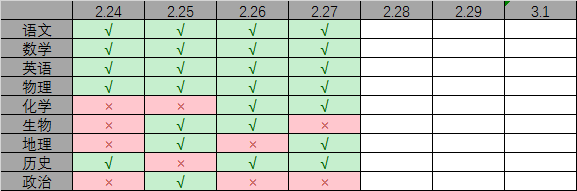
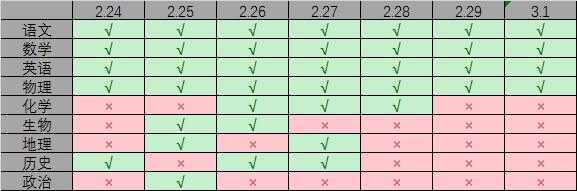
Site updated: 2020-03-01 10:53:21

diff --git a/2020/02/24/寒假自学计划安排（Updated）/index.html b/2020/02/24/寒假自学计划安排（Updated）/index.html
@@ -108,17 +108,18 @@
 <meta property="og:site_name" content="YRC的博客">
 <meta property="og:description" content="前言：2020年是个神奇的一年， 这一年开头， 澳大利亚森林大火失控， 乌克兰客机坠毁， 英国脱欧， 新型冠状病毒广泛传播， 科比遇难， 横扫亚非的蝗灾， 频繁的地震， 以及……最长的一次寒假， 近一个月没出过门。 总不能在家没事干吧…… Game？ 打久了有点无聊。 Study？ 好像有点用，是不是枯燥了点？ Music？ 总不能一直听吧…… 不如把三个揉在一起？ 那就试一下吧！ 计划（方便排版">
 <meta property="og:locale" content="zh-CN">
-<meta property="og:image" content="https://dgsyrc.github.io/2020/02/24/寒假自学计划安排（Updated）/1.jpg">
-<meta property="og:image" content="https://dgsyrc.github.io/2020/02/24/寒假自学计划安排（Updated）/2.jpg">
-<meta property="og:image" content="https://dgsyrc.github.io/2020/02/24/寒假自学计划安排（Updated）/3.jpg">
+<meta property="og:image" content="https://dgsyrc.github.io/2020/02/24/寒假自学计划安排（Updated）/1.png">
+<meta property="og:image" content="https://dgsyrc.github.io/2020/02/24/寒假自学计划安排（Updated）/2.png">
+<meta property="og:image" content="https://dgsyrc.github.io/2020/02/24/寒假自学计划安排（Updated）/3.png">
+<meta property="og:image" content="https://dgsyrc.github.io/2020/02/24/寒假自学计划安排（Updated）/4.png">
 <meta property="og:image" content="https://dgsyrc.github.io/2020/02/24/寒假自学计划安排（Updated）/jh1.png">
 <meta property="og:image" content="https://dgsyrc.github.io/2020/02/24/寒假自学计划安排（Updated）/jh2.png">
 <meta property="og:image" content="https://dgsyrc.github.io/2020/02/24/寒假自学计划安排（Updated）/jh3.png">
-<meta property="og:updated_time" content="2020-02-26T14:02:15.724Z">
+<meta property="og:updated_time" content="2020-03-01T02:52:24.403Z">
 <meta name="twitter:card" content="summary">
 <meta name="twitter:title" content="寒假自学计划安排（Updated）">
 <meta name="twitter:description" content="前言：2020年是个神奇的一年， 这一年开头， 澳大利亚森林大火失控， 乌克兰客机坠毁， 英国脱欧， 新型冠状病毒广泛传播， 科比遇难， 横扫亚非的蝗灾， 频繁的地震， 以及……最长的一次寒假， 近一个月没出过门。 总不能在家没事干吧…… Game？ 打久了有点无聊。 Study？ 好像有点用，是不是枯燥了点？ Music？ 总不能一直听吧…… 不如把三个揉在一起？ 那就试一下吧！ 计划（方便排版">
-<meta name="twitter:image" content="https://dgsyrc.github.io/2020/02/24/寒假自学计划安排（Updated）/1.jpg">
+<meta name="twitter:image" content="https://dgsyrc.github.io/2020/02/24/寒假自学计划安排（Updated）/1.png">
 
 
 
@@ -461,7 +462,7 @@
                 
                   <span class="post-meta-item-text">更新于</span>
                 
-                <time title="修改时间：2020-02-26 22:02:15" itemprop="dateModified" datetime="2020-02-26T22:02:15+08:00">2020-02-26</time>
+                <time title="修改时间：2020-03-01 10:52:24" itemprop="dateModified" datetime="2020-03-01T10:52:24+08:00">2020-03-01</time>
               
             
           </span>
@@ -495,7 +496,7 @@
                 
                   <span class="post-meta-item-text">本文字数：</span>
                 
-                <span title="本文字数">722</span>
+                <span title="本文字数">736</span>
               
 
               
@@ -549,9 +550,10 @@
 <p>总不能一直听吧……</p>
 <p>不如把三个揉在一起？</p>
 <p>那就试一下吧！</p>
-<h2 id="计划（方便排版，Monday为一周第一天）："><a href="#计划（方便排版，Monday为一周第一天）：" class="headerlink" title="计划（方便排版，Monday为一周第一天）："></a>计划（方便排版，Monday为一周第一天）：</h2><h3 id="第一周（2-10-2-16）："><a href="#第一周（2-10-2-16）：" class="headerlink" title="第一周（2.10~2.16）："></a>第一周（2.10~2.16）：</h3><p><img src="1.jpg" alt></p>
-<h3 id="第二周（2-17-2-23）："><a href="#第二周（2-17-2-23）：" class="headerlink" title="第二周（2.17~2.23）："></a>第二周（2.17~2.23）：</h3><p><img src="2.jpg" alt></p>
-<h3 id="第三周（2-24-3-1）："><a href="#第三周（2-24-3-1）：" class="headerlink" title="第三周（2.24~3.1）："></a>第三周（2.24~3.1）：</h3><p><img src="3.jpg" alt></p>
+<h2 id="计划（方便排版，Monday为一周第一天）："><a href="#计划（方便排版，Monday为一周第一天）：" class="headerlink" title="计划（方便排版，Monday为一周第一天）："></a>计划（方便排版，Monday为一周第一天）：</h2><h3 id="第一周（2-10-2-16）："><a href="#第一周（2-10-2-16）：" class="headerlink" title="第一周（2.10~2.16）："></a>第一周（2.10~2.16）：</h3><p><img src="1.png" alt></p>
+<h3 id="第二周（2-17-2-23）："><a href="#第二周（2-17-2-23）：" class="headerlink" title="第二周（2.17~2.23）："></a>第二周（2.17~2.23）：</h3><p><img src="2.png" alt></p>
+<h3 id="第三周（2-24-3-1）："><a href="#第三周（2-24-3-1）：" class="headerlink" title="第三周（2.24~3.1）："></a>第三周（2.24~3.1）：</h3><p><img src="3.png" alt></p>
+<h3 id="第四周（3-2-3-8）："><a href="#第四周（3-2-3-8）：" class="headerlink" title="第四周（3.2~3.8）："></a>第四周（3.2~3.8）：</h3><p><img src="4.png" alt></p>
 <h3 id="第N周（-）："><a href="#第N周（-）：" class="headerlink" title="第N周（?.?~?.?）："></a>第N周（?.?~?.?）：</h3><h2 id="Game"><a href="#Game" class="headerlink" title="Game:"></a>Game:</h2><p>主要是颓音游，有时是Minecraft。</p>
 <p>音游：osu!、Cytoid、Arcaea、Lanota</p>
 <p>还有皇室战争……</p>
@@ -918,7 +920,7 @@
             
 
             
-              <div class="post-toc-content"><ol class="nav"><li class="nav-item nav-level-2"><a class="nav-link" href="#前言："><span class="nav-number">1.</span> <span class="nav-text">前言：</span></a></li><li class="nav-item nav-level-2"><a class="nav-link" href="#计划（方便排版，Monday为一周第一天）："><span class="nav-number">2.</span> <span class="nav-text">计划（方便排版，Monday为一周第一天）：</span></a><ol class="nav-child"><li class="nav-item nav-level-3"><a class="nav-link" href="#第一周（2-10-2-16）："><span class="nav-number">2.1.</span> <span class="nav-text">第一周（2.10~2.16）：</span></a></li><li class="nav-item nav-level-3"><a class="nav-link" href="#第二周（2-17-2-23）："><span class="nav-number">2.2.</span> <span class="nav-text">第二周（2.17~2.23）：</span></a></li><li class="nav-item nav-level-3"><a class="nav-link" href="#第三周（2-24-3-1）："><span class="nav-number">2.3.</span> <span class="nav-text">第三周（2.24~3.1）：</span></a></li><li class="nav-item nav-level-3"><a class="nav-link" href="#第N周（-）："><span class="nav-number">2.4.</span> <span class="nav-text">第N周（?.?~?.?）：</span></a></li></ol></li><li class="nav-item nav-level-2"><a class="nav-link" href="#Game"><span class="nav-number">3.</span> <span class="nav-text">Game:</span></a></li><li class="nav-item nav-level-2"><a class="nav-link" href="#Music："><span class="nav-number">4.</span> <span class="nav-text">Music：</span></a></li><li class="nav-item nav-level-2"><a class="nav-link" href="#进度登记："><span class="nav-number">5.</span> <span class="nav-text">进度登记：</span></a><ol class="nav-child"><li class="nav-item nav-level-3"><a class="nav-link" href="#第一周（2-10-2-16）：-1"><span class="nav-number">5.1.</span> <span class="nav-text">第一周（2.10~2.16）：</span></a></li><li class="nav-item nav-level-3"><a class="nav-link" href="#第二周（2-17-2-23）：-1"><span class="nav-number">5.2.</span> <span class="nav-text">第二周（2.17~2.23）：</span></a></li><li class="nav-item nav-level-3"><a class="nav-link" href="#第三周（2-24-3-1）：-1"><span class="nav-number">5.3.</span> <span class="nav-text">第三周（2.24~3.1）：</span></a></li><li class="nav-item nav-level-3"><a class="nav-link" href="#第N周（-）：-1"><span class="nav-number">5.4.</span> <span class="nav-text">第N周（?.?~?.?）：</span></a></li></ol></li><li class="nav-item nav-level-2"><a class="nav-link" href="#补充："><span class="nav-number">6.</span> <span class="nav-text">补充：</span></a><ol class="nav-child"><li class="nav-item nav-level-3"><a class="nav-link" href="#UPD-2020-02-24"><span class="nav-number">6.1.</span> <span class="nav-text">UPD:2020-02-24</span></a></li><li class="nav-item nav-level-3"><a class="nav-link" href="#UPD-2020-02-25"><span class="nav-number">6.2.</span> <span class="nav-text">UPD:2020-02-25</span></a></li><li class="nav-item nav-level-3"><a class="nav-link" href="#UPD-2020-02-26"><span class="nav-number">6.3.</span> <span class="nav-text">UPD:2020-02-26</span></a></li></ol></li></ol></div>
+              <div class="post-toc-content"><ol class="nav"><li class="nav-item nav-level-2"><a class="nav-link" href="#前言："><span class="nav-number">1.</span> <span class="nav-text">前言：</span></a></li><li class="nav-item nav-level-2"><a class="nav-link" href="#计划（方便排版，Monday为一周第一天）："><span class="nav-number">2.</span> <span class="nav-text">计划（方便排版，Monday为一周第一天）：</span></a><ol class="nav-child"><li class="nav-item nav-level-3"><a class="nav-link" href="#第一周（2-10-2-16）："><span class="nav-number">2.1.</span> <span class="nav-text">第一周（2.10~2.16）：</span></a></li><li class="nav-item nav-level-3"><a class="nav-link" href="#第二周（2-17-2-23）："><span class="nav-number">2.2.</span> <span class="nav-text">第二周（2.17~2.23）：</span></a></li><li class="nav-item nav-level-3"><a class="nav-link" href="#第三周（2-24-3-1）："><span class="nav-number">2.3.</span> <span class="nav-text">第三周（2.24~3.1）：</span></a></li><li class="nav-item nav-level-3"><a class="nav-link" href="#第四周（3-2-3-8）："><span class="nav-number">2.4.</span> <span class="nav-text">第四周（3.2~3.8）：</span></a></li><li class="nav-item nav-level-3"><a class="nav-link" href="#第N周（-）："><span class="nav-number">2.5.</span> <span class="nav-text">第N周（?.?~?.?）：</span></a></li></ol></li><li class="nav-item nav-level-2"><a class="nav-link" href="#Game"><span class="nav-number">3.</span> <span class="nav-text">Game:</span></a></li><li class="nav-item nav-level-2"><a class="nav-link" href="#Music："><span class="nav-number">4.</span> <span class="nav-text">Music：</span></a></li><li class="nav-item nav-level-2"><a class="nav-link" href="#进度登记："><span class="nav-number">5.</span> <span class="nav-text">进度登记：</span></a><ol class="nav-child"><li class="nav-item nav-level-3"><a class="nav-link" href="#第一周（2-10-2-16）：-1"><span class="nav-number">5.1.</span> <span class="nav-text">第一周（2.10~2.16）：</span></a></li><li class="nav-item nav-level-3"><a class="nav-link" href="#第二周（2-17-2-23）：-1"><span class="nav-number">5.2.</span> <span class="nav-text">第二周（2.17~2.23）：</span></a></li><li class="nav-item nav-level-3"><a class="nav-link" href="#第三周（2-24-3-1）：-1"><span class="nav-number">5.3.</span> <span class="nav-text">第三周（2.24~3.1）：</span></a></li><li class="nav-item nav-level-3"><a class="nav-link" href="#第N周（-）：-1"><span class="nav-number">5.4.</span> <span class="nav-text">第N周（?.?~?.?）：</span></a></li></ol></li><li class="nav-item nav-level-2"><a class="nav-link" href="#补充："><span class="nav-number">6.</span> <span class="nav-text">补充：</span></a><ol class="nav-child"><li class="nav-item nav-level-3"><a class="nav-link" href="#UPD-2020-02-24"><span class="nav-number">6.1.</span> <span class="nav-text">UPD:2020-02-24</span></a></li><li class="nav-item nav-level-3"><a class="nav-link" href="#UPD-2020-02-25"><span class="nav-number">6.2.</span> <span class="nav-text">UPD:2020-02-25</span></a></li><li class="nav-item nav-level-3"><a class="nav-link" href="#UPD-2020-02-26"><span class="nav-number">6.3.</span> <span class="nav-text">UPD:2020-02-26</span></a></li></ol></li></ol></div>
             
 
           </div>

diff --git a/index.html b/index.html
@@ -452,7 +452,7 @@
                 
                   <span class="post-meta-item-text">更新于</span>
                 
-                <time title="修改时间：2020-02-26 22:02:15" itemprop="dateModified" datetime="2020-02-26T22:02:15+08:00">2020-02-26</time>
+                <time title="修改时间：2020-03-01 10:52:24" itemprop="dateModified" datetime="2020-03-01T10:52:24+08:00">2020-03-01</time>
               
             
           </span>
@@ -479,7 +479,7 @@
                 
                   <span class="post-meta-item-text">本文字数：</span>
                 
-                <span title="本文字数">722</span>
+                <span title="本文字数">736</span>
               
 
               

diff --git a/2019/01/17/洛谷管理语录（1）/index.html b/2019/01/17/洛谷管理语录（1）/index.html
@@ -100,7 +100,7 @@
 
 
 
-  <meta name="keywords" content="洛谷,图片">
+  <meta name="keywords" content="图片,洛谷">
 <meta property="og:type" content="article">
 <meta property="og:title" content="洛谷管理语录（1）">
 <meta property="og:url" content="https://dgsyrc.github.io/2019/01/17/洛谷管理语录（1）/index.html">
@@ -559,9 +559,9 @@
       
         <div class="post-tags">
           
-            <a href="/tags/洛谷/" rel="tag"># 洛谷</a>
-          
             <a href="/tags/图片/" rel="tag"># 图片</a>
+          
+            <a href="/tags/洛谷/" rel="tag"># 洛谷</a>
           
         </div>
       

diff --git a/css/main.css b/css/main.css
@@ -1944,7 +1944,7 @@ pre .javascript .function {
   width: 4px;
   height: 4px;
   border-radius: 50%;
-  background: #f9de5d;
+  background: #3705cb;
 }
 .links-of-blogroll {
   font-size: 13px;
